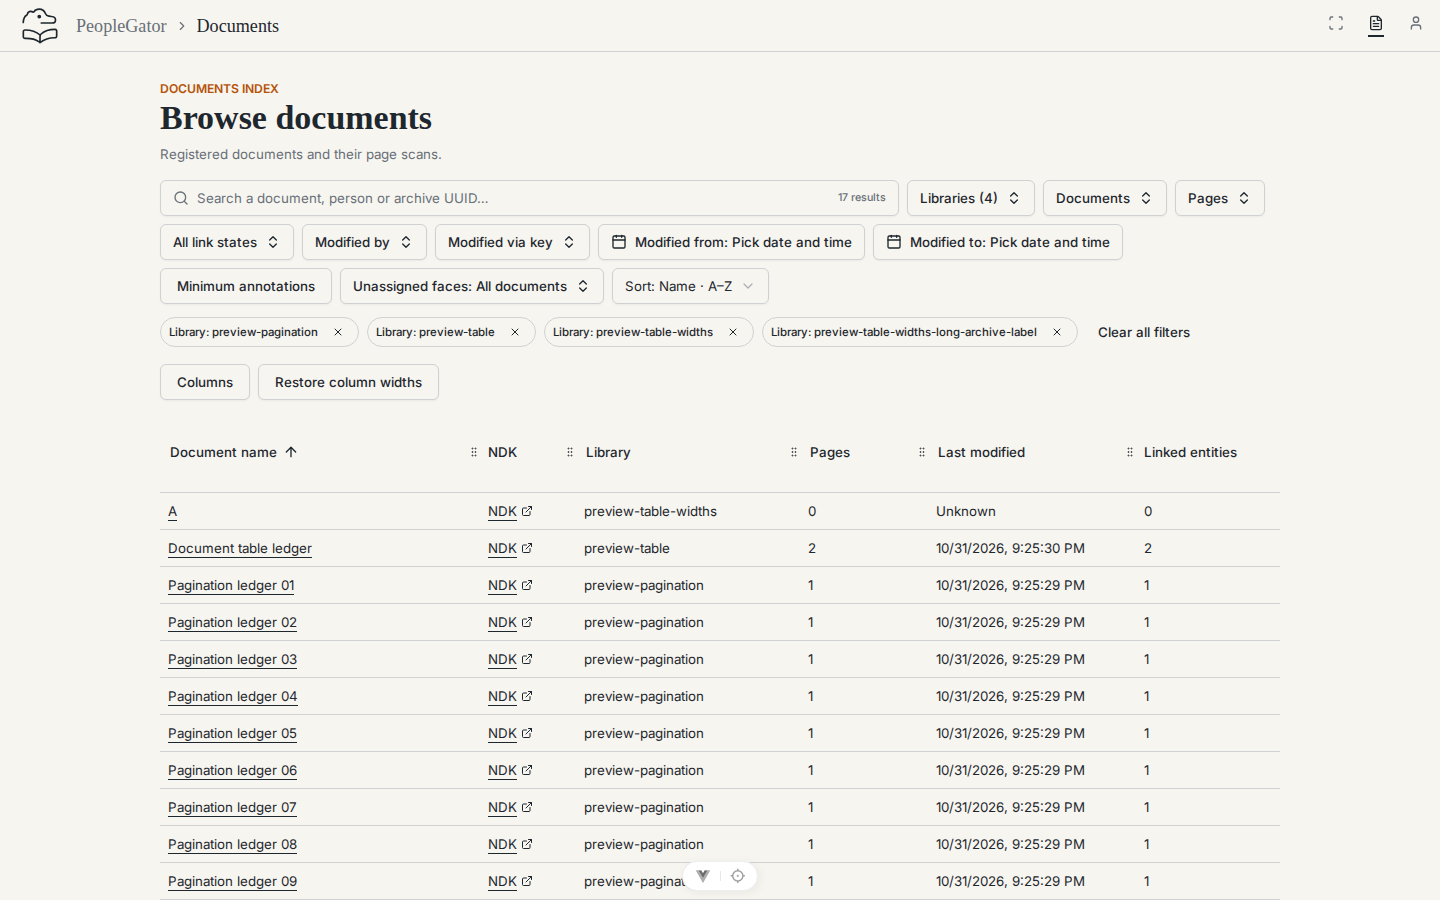
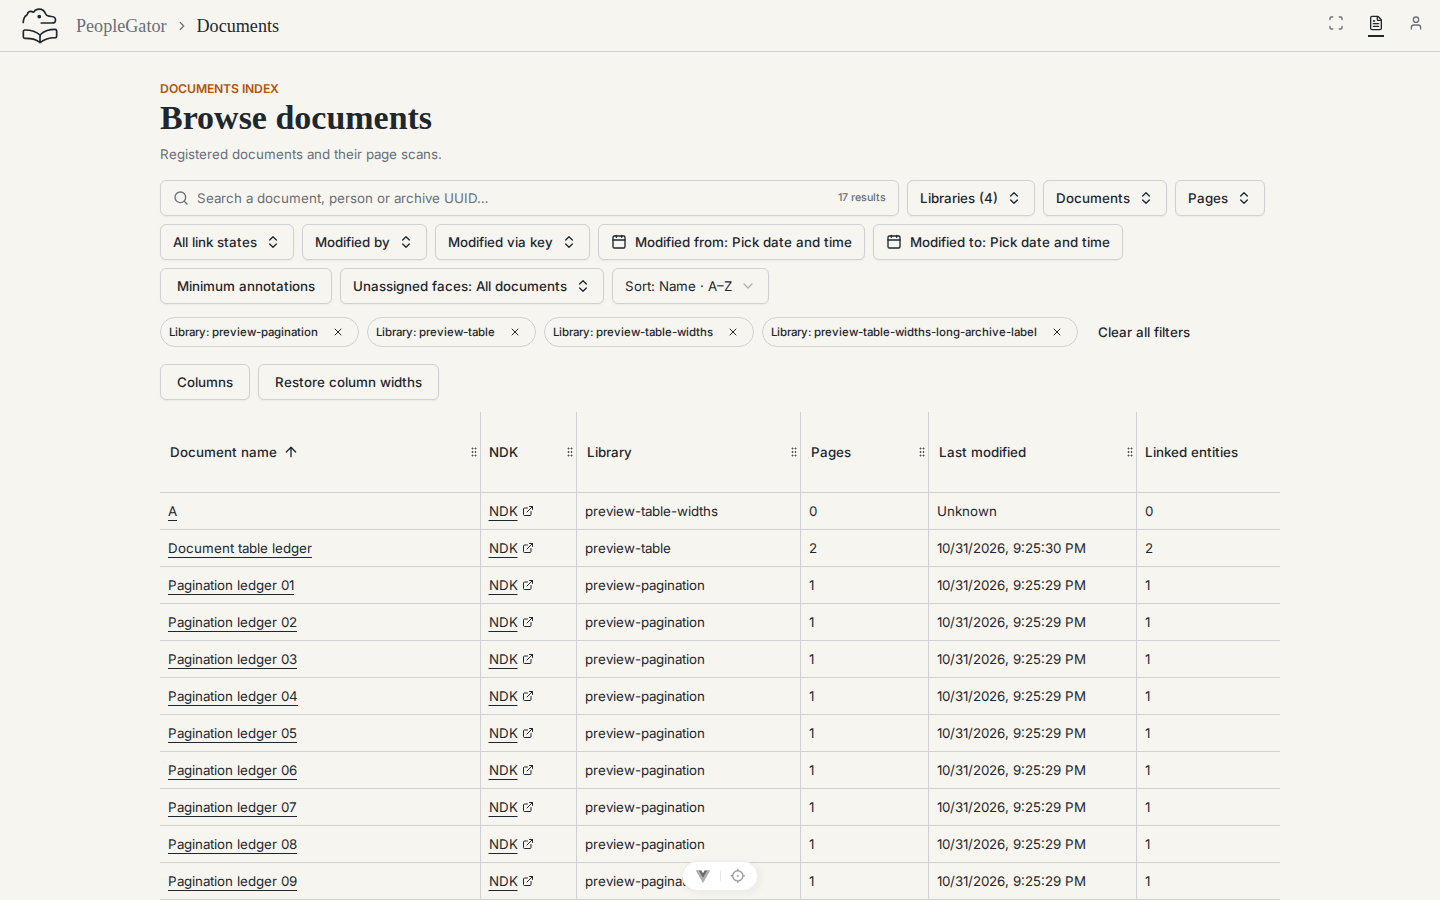
fix(documents): separate columns and verify settled dark theme contrast

diff --git a/people-gator-app/src/components/custom/DocumentTable.vue b/people-gator-app/src/components/custom/DocumentTable.vue
@@ -291,7 +291,7 @@ function resizeKey(event: KeyboardEvent, header: Header<typeof features, Documen
               :scope="header.column.columns.length ? 'colgroup' : 'col'"
               :aria-sort="headerSort(header.column.id)"
               :style="{ width: `${header.getSize()}px` }"
-              class="relative pr-4"
+              class="relative border-r pr-4 last:border-r-0"
             >
               <Button
                 v-if="DOCUMENT_COLUMN_SORTS[header.column.id]"
@@ -342,7 +342,7 @@ function resizeKey(event: KeyboardEvent, header: Header<typeof features, Documen
               v-for="cell in row.getVisibleCells()"
               :key="cell.id"
               :data-column="cell.column.id"
-              class="whitespace-normal [overflow-wrap:anywhere]"
+              class="border-r whitespace-normal last:border-r-0 [overflow-wrap:anywhere]"
               :style="{ width: `${cell.column.getSize()}px` }"
               :headers="
                 cell.column.parent

diff --git a/docs/issues/93/README.md b/docs/issues/93/README.md
@@ -10,12 +10,15 @@ Z–A changed its measured width from **160px to 1,171px**, and Library from
 **149px to 269px**. With the fix, Document name stays **320px** and Library
 **224px** across those sorts. The complete title wraps visibly within its cell,
 including the uninterrupted archive reference; row height adapts to its content.
+Vertical separators align across the headers and body cells.
 
 - `before-*-ascending.png` / `before-*-descending.png`: original width jump.
 - `after-*-ascending.png` / `after-*-descending.png`: stable defaults, header grips
   and the wrapped long title after sorting.
 - `after-*-resized-media.png`: title adjusted to 330px using its header, optional
   First page and attribution/count fields enabled, local preview media loaded.
+- `after-*-dark-titles.png`: dark title columns and header controls after theme
+  transitions settle; text/header contrast is checked to be at least 4.5:1.
 - `after-*-dark.png`: dark appearance and the rightmost count headers/fields,
   reached inside the bounded table scroll region.
 

diff --git a/people-gator-api/docs/PREVIEW-SEEDING.md b/people-gator-api/docs/PREVIEW-SEEDING.md
@@ -1087,7 +1087,7 @@ reviewed assignments and last-processing timestamps are preserved on reruns.
 
 Sort Document name in both directions, then enable First page, Modified by,
 API key and the face/text-mention count groups. At desktop and mobile sizes,
-column widths stay constant while full titles and other long values wrap
+column boundaries have vertical separators and widths stay constant while full titles and other long values wrap
 inside their cells; row heights grow with the text. The title width is 320 CSS
 pixels. All widths use the same fixed pixel policy at every viewport; unused
 parent space is left blank and excess columns scroll inside the keyboard-focusable
